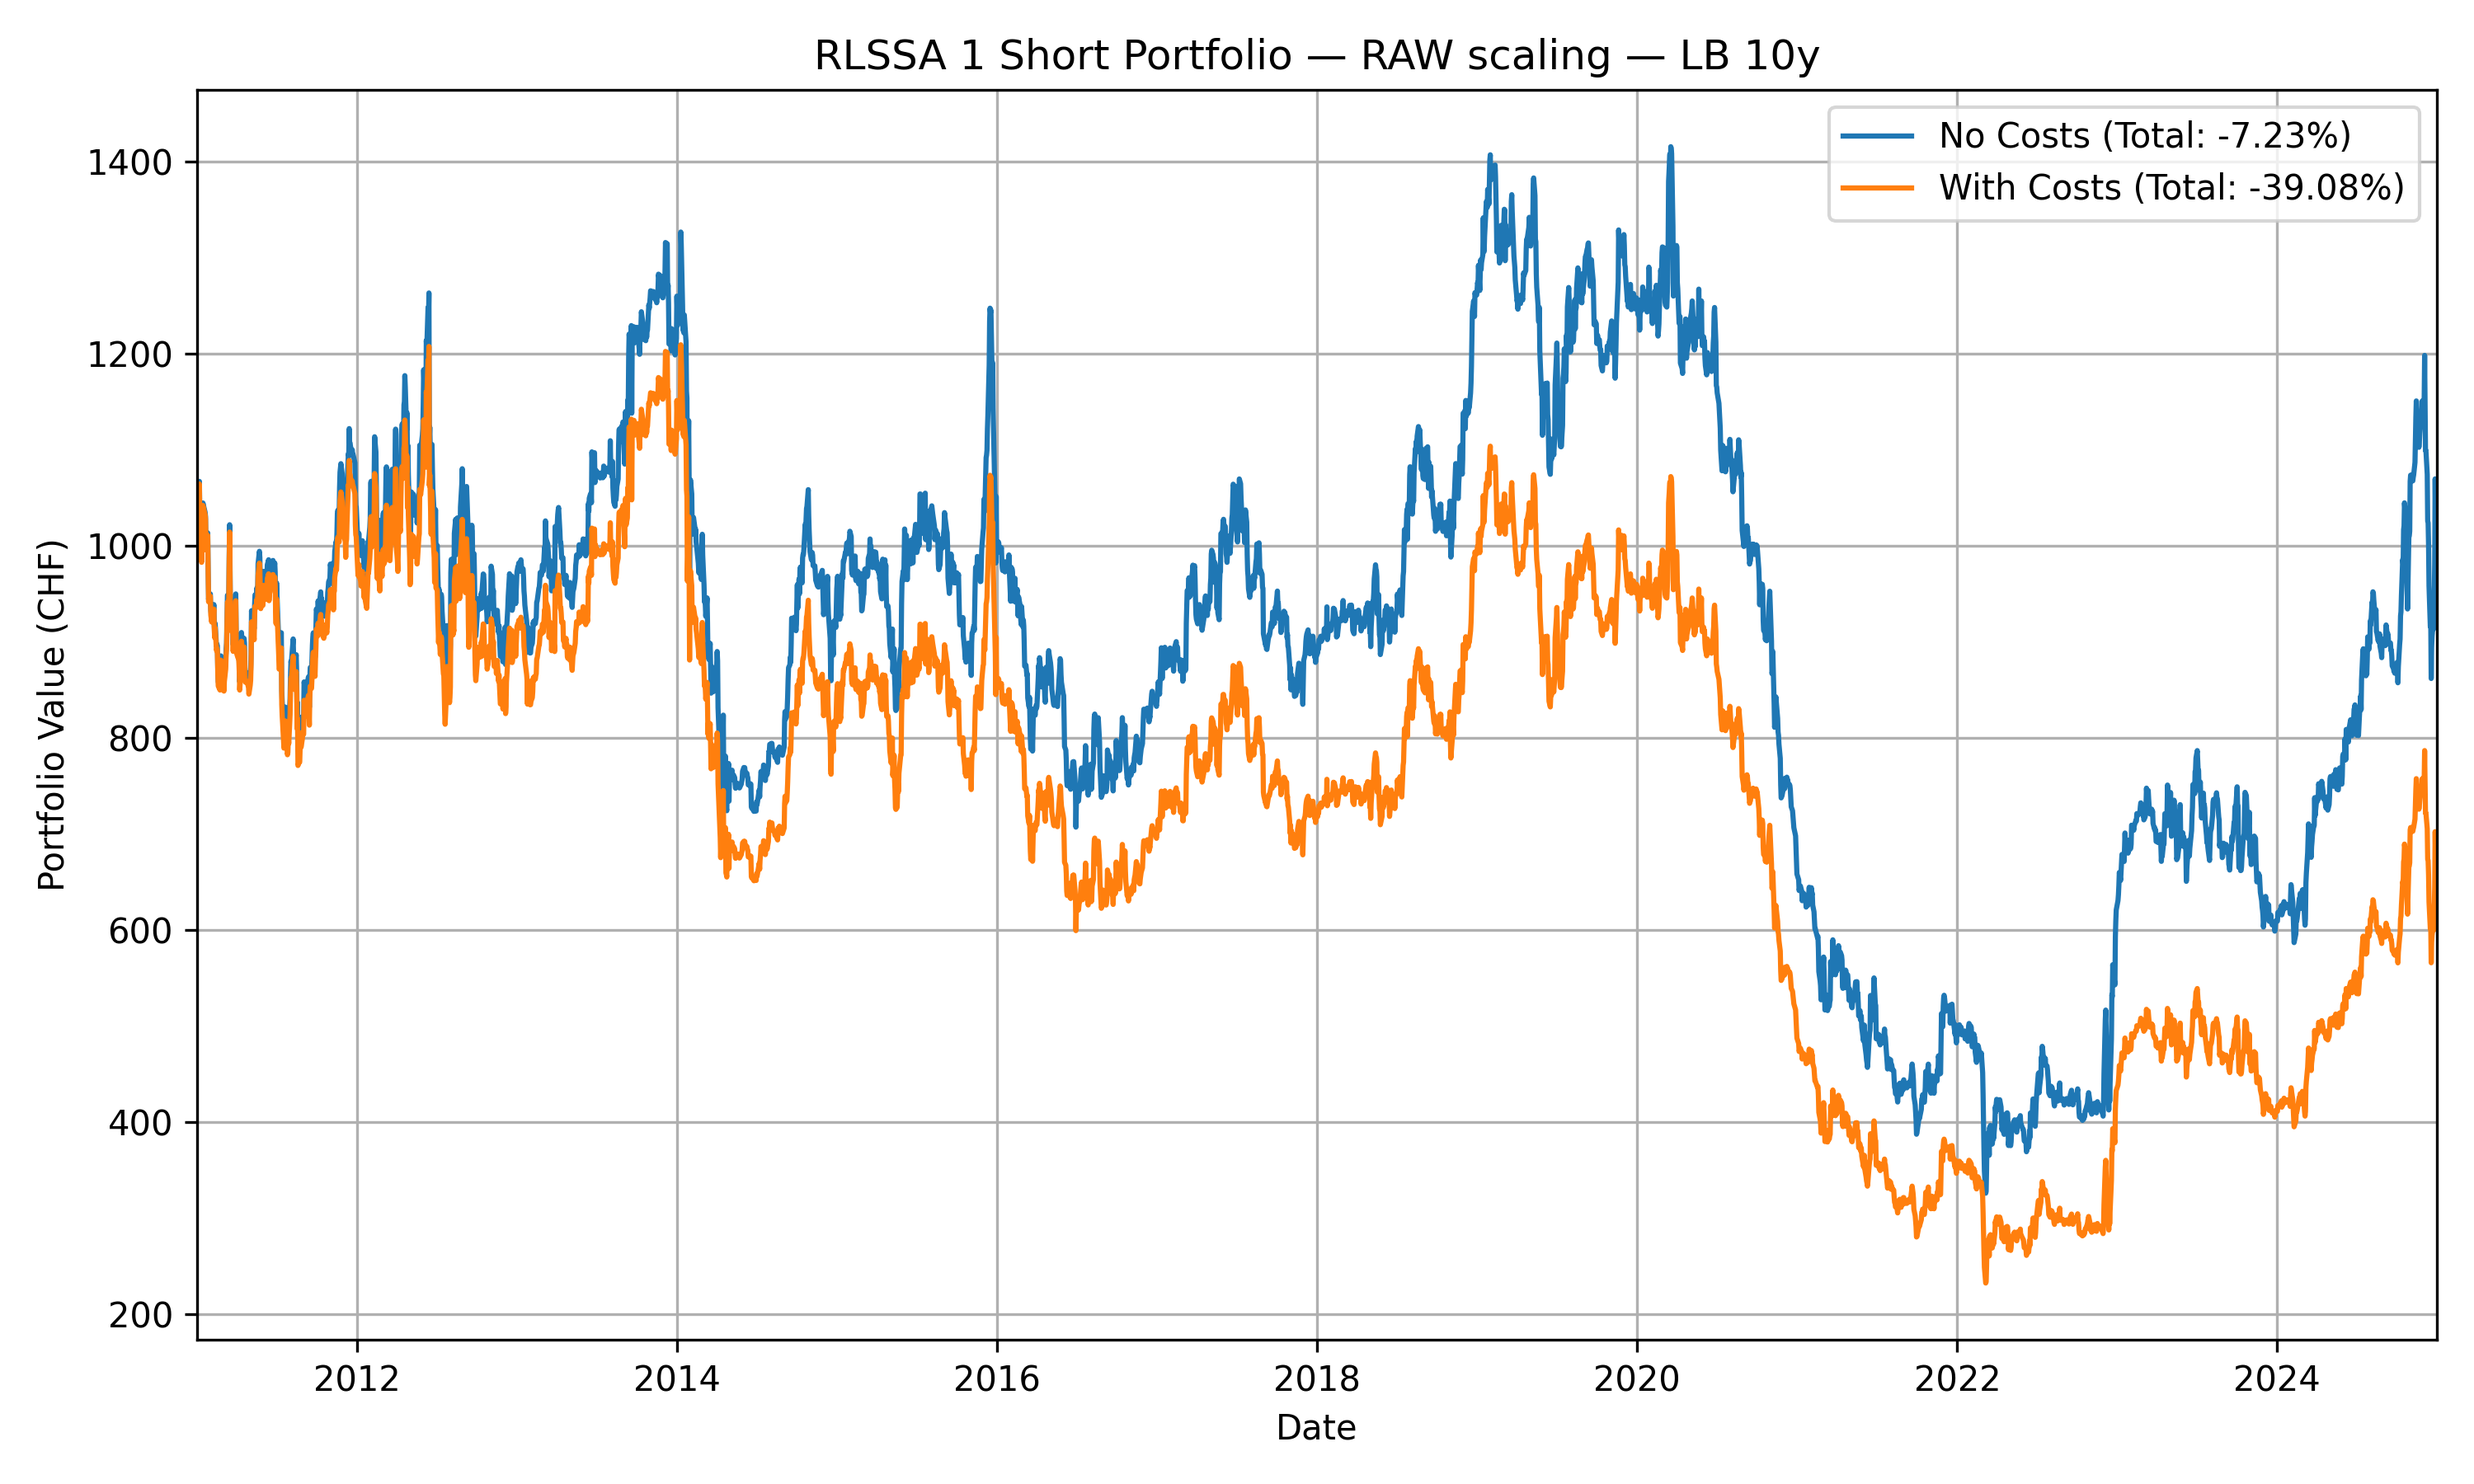
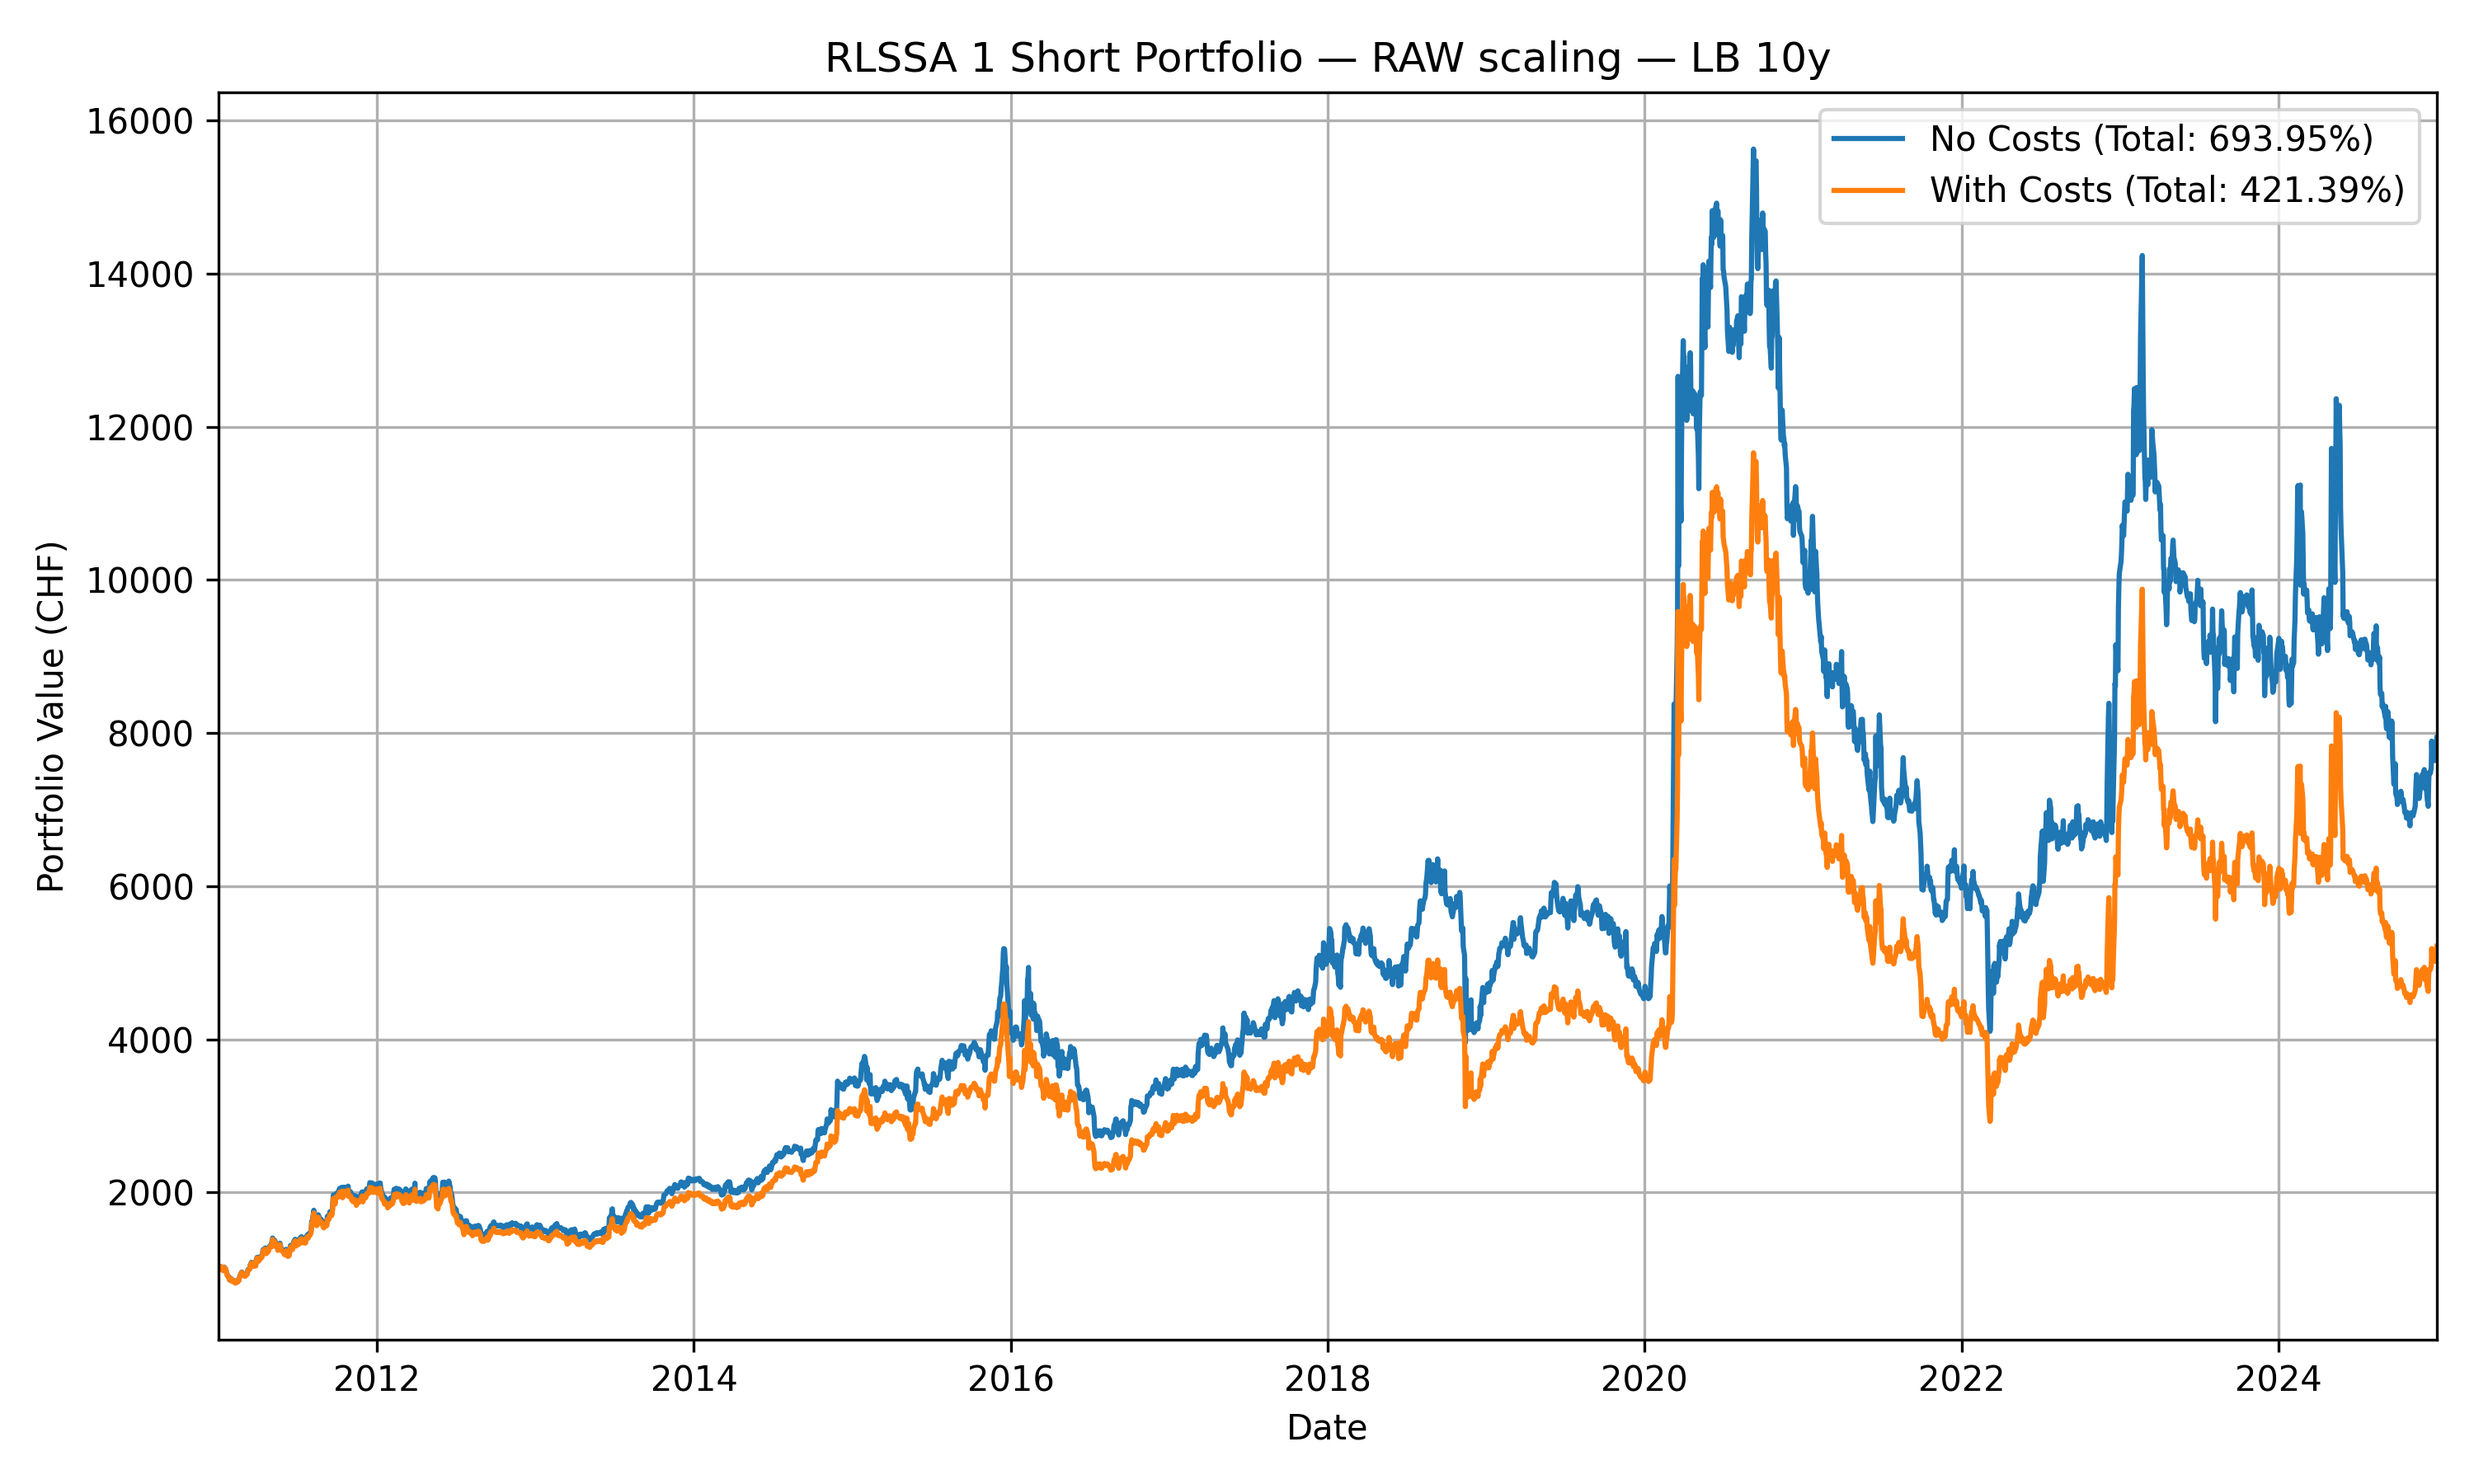
Correction for Scoring Framework for SSA and RLSSA Rechecking for correct Scoring Calculation Redoing all Plots for SSA and RLSSA Last Error -> LongShort is not the same for daily and monthly

diff --git a/Data Analysis/Seasonality Models/RLSSA_Scoring_Framework.py b/Data Analysis/Seasonality Models/RLSSA_Scoring_Framework.py
@@ -11,7 +11,7 @@ q                   = 2     # Number of L1‐robust components
 K_SELECT            = 2     # How many tickers to long/short
 # Define analysis window by year & month:
 START_YEAR, START_MONTH             = 2001, 1
-FINAL_END_YEAR, FINAL_END_MONTH     = 2015, 12
+FINAL_END_YEAR, FINAL_END_MONTH     = 2011, 3
 # Lookback in years (None => full history)
 LOOKBACK_YEARS      = 10
 
@@ -20,40 +20,84 @@ start_date = datetime(START_YEAR, START_MONTH, 1)
 final_end  = (datetime(FINAL_END_YEAR, FINAL_END_MONTH, 1)
               + pd.offsets.MonthEnd(0))
 
-# --- Robust low‐rank helper ---
-def robust_low_rank(X, q, max_iter=25, eps=1e-7):
-    L_, K = X.shape
-    U0, s0, V0t = la.svd(X, full_matrices=False)
-    U = U0[:, :q] * np.sqrt(s0[:q])
-    V = (V0t[:q, :].T) * np.sqrt(s0[:q])
+# -----------------------------------------------------------------------------
+# 3) RLSSA (Robust Low-Rank SSA)
+# -----------------------------------------------------------------------------
+def robust_low_rank(X: np.ndarray, q: int, max_iter: int = 25, eps: float = 1e-7):
+    """
+    Simple IRLS-style robust low-rank approximation:
+      minimize ~ sum w_{ij} (X_ij - (UV^T)_ij)^2 with w_{ij} ≈ 1/(|resid|+eps).
+    Returns U (L×q), V (K×q) such that S ≈ U V^T.
+    """
+    U0, s0, V0t = np.linalg.svd(X, full_matrices=False)
+    r0 = min(q, s0.size)
+    U = U0[:, :r0] * np.sqrt(s0[:r0])
+    V = (V0t[:r0, :].T) * np.sqrt(s0[:r0])
+
     for _ in range(max_iter):
         R = X - U @ V.T
         W = 1.0 / (np.abs(R) + eps)
         Xw = np.sqrt(W) * X
-        Uw, sw, Vwt = la.svd(Xw, full_matrices=False)
-        U = Uw[:, :q] * np.sqrt(sw[:q])
-        V = (Vwt[:q, :].T) * np.sqrt(sw[:q])
+        Uw, sw, Vwt = np.linalg.svd(Xw, full_matrices=False)
+        r0 = min(q, sw.size)
+        U = Uw[:, :r0] * np.sqrt(sw[:r0])
+        V = (Vwt[:r0, :].T) * np.sqrt(sw[:r0])
+
     return U, V
 
-# --- RLSSA‐score function ---
-def rlssa_score(series: pd.Series, L: int, q: int):
-    x = series.values.astype(float)
-    N = len(x)
-    if N < L:
+def compute_rlssa(series: np.ndarray, L: int, q: int) -> float:
+    """
+    RLSSA one-step forecast:
+      1) Hankel embed X (L×K)
+      2) Robust low-rank S ≈ U V^T (rank q)
+      3) Hankelize S -> robust fitted rec (length N)
+      4) SVD(S) -> Uc; build recurrent coefficients a from Uc
+      5) Forecast \hat y_{N+1} = sum a_j * rec[N+1-j], j=1..L-1
+    Returns scalar forecast or np.nan on failure.
+    """
+    x = np.asarray(series, dtype=float).ravel()
+    if np.any(~np.isfinite(x)):
+        return np.nan
+    N = x.size
+    if not (1 < L < N) or q < 1:
         return np.nan
     K = N - L + 1
-    X = np.column_stack([x[i:i+L] for i in range(K)])
-    U, V = robust_low_rank(X, q)
-    X_rob = U @ V.T
-    # diagonal averaging
-    rec, counts = np.zeros(N), np.zeros(N)
+
+    X = np.column_stack([x[i:i+L] for i in range(K)])  # L×K
+    U_r, V_r = robust_low_rank(X, q=q)
+    S = U_r @ V_r.T
+
+    # Hankelize S
+    rec = np.zeros(N, dtype=float)
+    cnt = np.zeros(N, dtype=float)
     for i in range(L):
         for j in range(K):
-            rec[i+j]    += X_rob[i, j]
-            counts[i+j] += 1
-    rec /= counts
-    # score = mean of last L reconstructed points
-    return rec[-L:].mean()
+            rec[i + j] += S[i, j]
+            cnt[i + j] += 1.0
+    if not np.all(cnt > 0):
+        return np.nan
+    rec /= cnt
+
+    # Classical SVD on S (for recurrence)
+    Uc, sc, Vct = np.linalg.svd(S, full_matrices=False)
+    r_eff = int(min(q, sc.size))
+    if r_eff < 1:
+        return np.nan
+    Uc = Uc[:, :r_eff]
+
+    P_head = Uc[:-1, :]        # (L-1)×r
+    phi    = Uc[-1, :]         # length r
+    nu2    = float(np.dot(phi, phi))
+    if 1.0 - nu2 <= 1e-10:
+        return np.nan
+
+    R = (P_head @ phi) / (1.0 - nu2)   # (a_{L-1},...,a_1)
+    a = R[::-1]                         # (a_1,...,a_{L-1})
+
+    lags = rec[-1: -L: -1]
+    if lags.size != a.size:
+        return np.nan
+    return float(np.dot(a, lags))
 
 # --- Gather assets ---
 project_root = Path().resolve().parent.parent
@@ -71,15 +115,15 @@ for ticker in ASSET_LIST:
 
     # restrict to our analysis window
     df = df.loc[start_date:final_end]
-    print(df)
 
     # apply lookback if requested
     if LOOKBACK_YEARS is not None:
         cutoff = final_end - relativedelta(years=LOOKBACK_YEARS)
         df     = df.loc[cutoff:final_end]
+        print(f"current df -> {df}")
 
     series = df['return'].astype(float)
-    scores[ticker] = rlssa_score(series, L, q)
+    scores[ticker] = compute_rlssa(series, L, q)
 
 # --- Rank & select ---
 final_scores  = pd.Series(scores, name="RLSSA_Score").to_frame()

diff --git a/Data Analysis/Seasonality Models/SSA_Scoring_Framework.py b/Data Analysis/Seasonality Models/SSA_Scoring_Framework.py
@@ -5,14 +5,14 @@ from datetime import datetime
 from dateutil.relativedelta import relativedelta
 
 # --- User parameters ---
-L          = 12        # SSA window length
-J          = 2         # Number of components to reconstruct
+SSA_WINDOW          = 12        # SSA window length
+SSA_COMPS          = 2         # Number of components to reconstruct
 K_SELECT   = 2         # How many tickers to long/short
 # Define analysis window by year & month:
-START_YEAR, START_MONTH             = 2014, 12
-FINAL_END_YEAR, FINAL_END_MONTH     = 2024, 11
+START_YEAR, START_MONTH             = 2001, 1
+FINAL_END_YEAR, FINAL_END_MONTH     = 2010, 12
 # Lookback in years (None => full history)
-LOOKBACK_YEARS   = None
+LOOKBACK_YEARS   = 10
 
 # --- Compute actual date endpoints ---
 start_date = datetime(START_YEAR, START_MONTH, 1)
@@ -21,43 +21,54 @@ final_end = (datetime(FINAL_END_YEAR, FINAL_END_MONTH, 1)
              + pd.offsets.MonthEnd(0))
 
 # --- Helper: SSA‐based score for one pandas Series ---
-def ssa_score(series: pd.Series, L: int, J: int):
-    x = series.values.astype(float)
-    N = len(x)
-    if N < L:
-        return np.full(N, np.nan), np.nan
+def compute_ssa(x: np.ndarray) -> float:
+    x = np.asarray(x, dtype=float).ravel()
+    N = len(x); L = int(SSA_WINDOW); r = int(SSA_COMPS)
+    if N < max(L, 3) or L <= 1 or L >= N or r < 1: return np.nan
+    if np.isnan(x).any(): return np.nan
 
-    # 1. Hankel embedding
     K = N - L + 1
-    X = np.column_stack([x[i:i+L] for i in range(K)])
-    # 2. SVD on lag‐covariance
+    X = np.column_stack([x[i:i+L] for i in range(K)])  # L x K
+
     S = X @ X.T
-    λ, U = np.linalg.eigh(S)
-    idx = np.argsort(λ)[::-1]
-    λ, U = λ[idx], U[:, idx]
-    # 3. Reconstruct top‐J components
-    Xj = sum(
-        np.sqrt(λ[m]) * np.outer(
-            U[:, m],
-            (X.T @ U[:, m]) / np.sqrt(λ[m])
-        )
-        for m in range(J)
-    )
-    # 4. Diagonal averaging (Hankelization)
-    rec    = np.zeros(N)
-    counts = np.zeros(N)
+    eigvals, eigvecs = np.linalg.eigh(S)
+    order = np.argsort(eigvals)[::-1]
+    eigvals = eigvals[order]; eigvecs = eigvecs[:, order]
+    eps = 1e-12
+    pos = eigvals > eps
+    if not np.any(pos): return np.nan
+    eigvals = eigvals[pos]; eigvecs = eigvecs[:, pos]
+
+    r_eff = int(min(r, eigvals.size))
+    U = eigvecs[:, :r_eff]
+    sigma = np.sqrt(eigvals[:r_eff])
+    V = (X.T @ U) / sigma
+
+    Xr = (U * sigma) @ V.T
+
+    rec = np.zeros(N); cnt = np.zeros(N)
     for i in range(L):
         for j in range(K):
-            rec[i+j]    += Xj[i, j]
-            counts[i+j] += 1
-    rec /= counts
-    # 5. Final score = mean of last L reconstructed values
-    score = rec[-L:].mean()
-    return rec, score
+            rec[i + j] += Xr[i, j]
+            cnt[i + j] += 1.0
+    if not np.all(cnt > 0): return np.nan
+    rec /= cnt
+
+    P_head = U[:-1, :]
+    pi = U[-1, :]
+    nu2 = float(np.dot(pi, pi))
+    if 1.0 - nu2 <= 1e-10: return np.nan
+
+    R = (P_head @ pi) / (1.0 - nu2)
+    a = R[::-1]
+
+    lags = rec[-1: -L: -1]
+    if lags.size != a.size: return np.nan
+    return float(np.dot(a, lags))
 
 # --- Gather all assets ---
 project_root = Path().resolve().parent.parent
-monthly_dir  = project_root / "Complete Data" / "All_Monthly_Return_Data"
+monthly_dir  = project_root / "Complete Data" / "All_Monthly_Log_Return_Data"
 paths        = list(monthly_dir.glob("*_Monthly_Revenues.csv"))
 ASSET_LIST   = [p.stem.replace("_Monthly_Revenues","") for p in paths]
 
@@ -78,11 +89,13 @@ for ticker in ASSET_LIST:
         cutoff = final_end - relativedelta(years=LOOKBACK_YEARS)
         df     = df.loc[cutoff:final_end]
 
+    print(f"df {df}")
+
     # ensure returns are numeric
     series = df['return'].astype(float)
 
     # compute SSA score
-    _, final_score = ssa_score(series, L, J)
+    final_score = compute_ssa(series)
     scores[ticker] = final_score
 
 # --- Rank and select ---

diff --git a/Data Analysis/Seasonality Models/SSA_Portfolio_Creator.py b/Data Analysis/Seasonality Models/SSA_Portfolio_Creator.py
@@ -14,7 +14,7 @@ LOOKBACK_YEARS  = 10
 FINAL_END       = datetime(2024, 12, 31)
 
 NUM_SELECT      = 1
-MODE            = "Long"   # "Long", "Short", or "LongShort"
+MODE            = "LongShort"   # "Long", "Short", or "LongShort"
 
 SSA_WINDOW      = 12
 SSA_COMPS       = 2
@@ -175,6 +175,7 @@ log_returns = load_monthly_returns(base / "All_Monthly_Log_Return_Data")
 returns     = load_monthly_returns(base / "All_Monthly_Return_Data")
 
 ssa_score = build_ssa_history(log_returns)
+print(f"ssa_score {ssa_score}")
 tickers   = list(returns)
 
 initial_lb_end       = (START_DATE + relativedelta(years=LOOKBACK_YEARS) - pd.offsets.MonthEnd(1))

diff --git a/Data Analysis/Seasonality Models/RLSSA_Portfolio_Creator.py b/Data Analysis/Seasonality Models/RLSSA_Portfolio_Creator.py
@@ -13,8 +13,8 @@ START_DATE      = datetime(2001, 1, 1)
 LOOKBACK_YEARS  = 10                 # rolling history for RLSSA & EWMA vol
 FINAL_END       = datetime(2024, 12, 31)
 
-NUM_SELECT      = 1
-MODE            = "Long"            # "Long", "Short", or "LongShort"
+NUM_SELECT      = 2
+MODE            = "LongShort"            # "Long", "Short", or "LongShort"
 
 SSA_WINDOW      = 12
 SSA_COMPS       = 2                  # robust rank (q)
